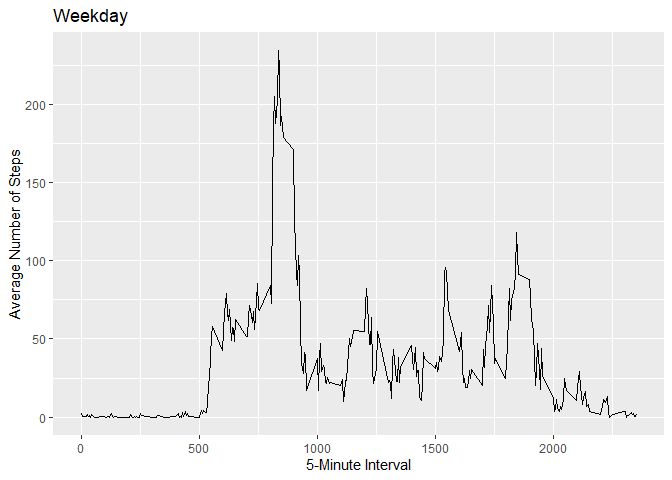
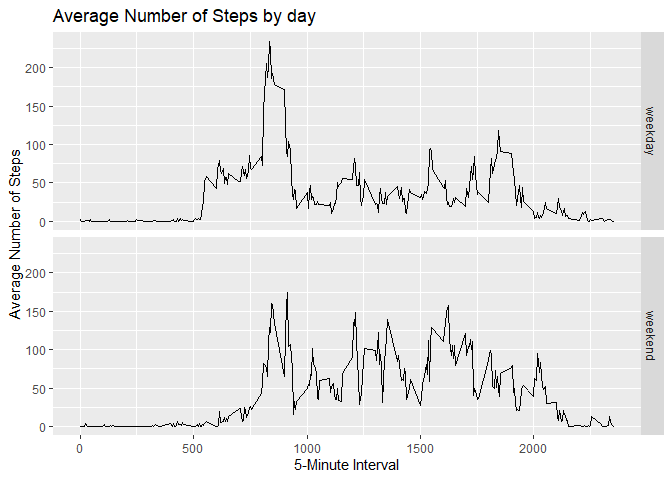
Last commit.

diff --git a/PA1_template.html b/PA1_template.html
@@ -506,24 +506,15 @@ activity_day$day &lt;- day</code></pre>
 <ol start="2" style="list-style-type: decimal">
 <li>Make a panel plot containing a time series plot of the 5-minute interval (x-axis) and the average number of steps taken, averaged across all weekday days or weekend days (y-axis).</li>
 </ol>
-<pre class="r"><code>weekday &lt;- activity_day %&gt;%
-        filter(day==&quot;weekday&quot;) %&gt;%
-        group_by(interval) %&gt;%
+<pre class="r"><code>activity_day_grouped &lt;- activity_day %&gt;%
+        group_by(day, interval) %&gt;%
         summarise(mean=mean(steps, na.rm=TRUE))
-weekend &lt;- activity_day %&gt;%
-        filter(day==&quot;weekend&quot;) %&gt;%
-        group_by(interval) %&gt;%
-        summarise(mean=mean(steps, na.rm=TRUE))
-ggplot(weekday, aes(x = interval, y = mean)) +
+ggplot(activity_day_grouped, aes(x=interval, y=mean)) +
         geom_line() +
+        facet_grid(day~.) +
         labs(x = &quot;5-Minute Interval&quot;, y = &quot;Average Number of Steps&quot;
-                , title = &quot;Weekday&quot;)</code></pre>
[1 lines of base64/hex data omitted]
-<pre class="r"><code>ggplot(weekend, aes(x = interval, y = mean)) +
-        geom_line() +
-        labs(x = &quot;5-Minute Interval&quot;, y = &quot;Average Number of Steps&quot;
-                , title = &quot;weekend&quot;)</code></pre>
[1 lines of base64/hex data omitted]
+                , title = &quot;Average Number of Steps by day&quot;)</code></pre>
[1 lines of base64/hex data omitted]
 </div>
 
 

diff --git a/PA1_template.md b/PA1_template.md
@@ -192,27 +192,14 @@ activity_day$day <- day
 2. Make a panel plot containing a time series plot of the 5-minute interval (x-axis) and the average number of steps taken, averaged across all weekday days or weekend days (y-axis).  
 
 ```r
-weekday <- activity_day %>%
-        filter(day=="weekday") %>%
-        group_by(interval) %>%
+activity_day_grouped <- activity_day %>%
+        group_by(day, interval) %>%
         summarise(mean=mean(steps, na.rm=TRUE))
-weekend <- activity_day %>%
-        filter(day=="weekend") %>%
-        group_by(interval) %>%
-        summarise(mean=mean(steps, na.rm=TRUE))
-ggplot(weekday, aes(x = interval, y = mean)) +
+ggplot(activity_day_grouped, aes(x=interval, y=mean)) +
         geom_line() +
+        facet_grid(day~.) +
         labs(x = "5-Minute Interval", y = "Average Number of Steps"
-                , title = "Weekday")
+                , title = "Average Number of Steps by day")
 ```
 
 ![](PA1_template_files/figure-html/unnamed-chunk-12-1.png)<!-- -->
-
-```r
-ggplot(weekend, aes(x = interval, y = mean)) +
-        geom_line() +
-        labs(x = "5-Minute Interval", y = "Average Number of Steps"
-                , title = "weekend")
-```
-
-![](PA1_template_files/figure-html/unnamed-chunk-12-2.png)<!-- -->
